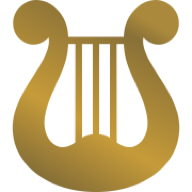
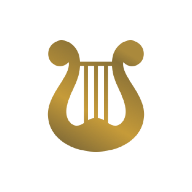
fix(android): ensure gold-only palette and padded artwork margins for media notification

diff --git a/src/lib/mediaSessionService.js b/src/lib/mediaSessionService.js
@@ -357,13 +357,19 @@ export function updateMediaSessionMetadata({
   };
 
   if (isNative) {
+    const isDefaultArtwork = !artworkUrl ||
+      artworkUrl === '/icon-512.png' ||
+      artworkUrl === '/icon-192.png' ||
+      artworkUrl.endsWith('/icon-512.png') ||
+      artworkUrl.endsWith('/icon-192.png');
+
     try {
       ApolloMedia.setMetadata({
         title: currentMetadata.title,
         artist: currentMetadata.artist,
         album: currentMetadata.album,
         duration: currentMetadata.durationSec,
-        artworkUrl: toAbsoluteUrl(currentMetadata.artworkUrl),
+        artworkUrl: isDefaultArtwork ? '' : toAbsoluteUrl(currentMetadata.artworkUrl),
       }).catch(() => {});
     } catch {}
   }

diff --git a/android/app/src/main/java/com/apollo/choir/ApolloMediaService.java b/android/app/src/main/java/com/apollo/choir/ApolloMediaService.java
@@ -10,6 +10,9 @@ import android.content.Intent;
 import android.content.pm.ServiceInfo;
 import android.graphics.Bitmap;
 import android.graphics.BitmapFactory;
+import android.graphics.Canvas;
+import android.graphics.Paint;
+import android.graphics.RectF;
 import android.os.Build;
 import android.os.Handler;
 import android.os.IBinder;
@@ -290,7 +293,13 @@ public class ApolloMediaService extends Service {
                 isPlaying = intent.getBooleanExtra(EXTRA_IS_PLAYING, isPlaying);
 
                 String artworkUrl = intent.getStringExtra(EXTRA_ARTWORK_URL);
-                if (artworkUrl != null && !artworkUrl.equals(currentArtworkUrl)) {
+                boolean isDefault = (artworkUrl == null || artworkUrl.trim().isEmpty() ||
+                                     artworkUrl.contains("icon-512") || artworkUrl.contains("icon-192"));
+                if (isDefault) {
+                    currentArtworkUrl = "";
+                    currentArtworkBitmap = defaultArtworkBitmap;
+                    updateNotificationAndSession();
+                } else if (!artworkUrl.equals(currentArtworkUrl)) {
                     currentArtworkUrl = artworkUrl;
                     loadArtworkAsync(artworkUrl);
                 } else {
@@ -308,7 +317,13 @@ public class ApolloMediaService extends Service {
         this.currentAlbum = album != null ? album : "";
         this.currentDuration = durationMs;
 
-        if (artworkUrl != null && !artworkUrl.equals(currentArtworkUrl)) {
+        boolean isDefault = (artworkUrl == null || artworkUrl.trim().isEmpty() ||
+                             artworkUrl.contains("icon-512") || artworkUrl.contains("icon-192"));
+        if (isDefault) {
+            this.currentArtworkUrl = "";
+            this.currentArtworkBitmap = defaultArtworkBitmap;
+            updateNotificationAndSession();
+        } else if (!artworkUrl.equals(currentArtworkUrl)) {
             this.currentArtworkUrl = artworkUrl;
             loadArtworkAsync(artworkUrl);
         } else {
@@ -403,9 +418,35 @@ public class ApolloMediaService extends Service {
             } catch (Exception e) {
                 Log.w(TAG, "Failed to load artwork from " + urlString + ": " + e.getMessage());
             }
-            currentArtworkBitmap = (bitmap != null) ? bitmap : defaultArtworkBitmap;
+            currentArtworkBitmap = (bitmap != null) ? ensurePaddedArtworkBitmap(bitmap) : defaultArtworkBitmap;
             updateNotificationAndSession();
         });
+    }
+
+    private Bitmap ensurePaddedArtworkBitmap(Bitmap src) {
+        if (src == null) return null;
+        try {
+            int w = src.getWidth();
+            int h = src.getHeight();
+            int targetDim = Math.max(Math.max(w, h), 512);
+            Bitmap padded = Bitmap.createBitmap(targetDim, targetDim, Bitmap.Config.ARGB_8888);
+            Canvas canvas = new Canvas(padded);
+
+            // Scale to 65% of canvas for comfortable margins matching Apollo standard
+            float contentDim = targetDim * 0.65f;
+            float scale = Math.min(contentDim / w, contentDim / h);
+            float destW = w * scale;
+            float destH = h * scale;
+            float left = (targetDim - destW) / 2f;
+            float top = (targetDim - destH) / 2f;
+
+            Paint paint = new Paint(Paint.ANTI_ALIAS_FLAG | Paint.FILTER_BITMAP_FLAG);
+            canvas.drawBitmap(src, null, new RectF(left, top, left + destW, top + destH), paint);
+            return padded;
+        } catch (Exception e) {
+            Log.w(TAG, "Failed to pad artwork bitmap: " + e.getMessage());
+            return src;
+        }
     }
 
     private void updateNotificationAndSession() {
